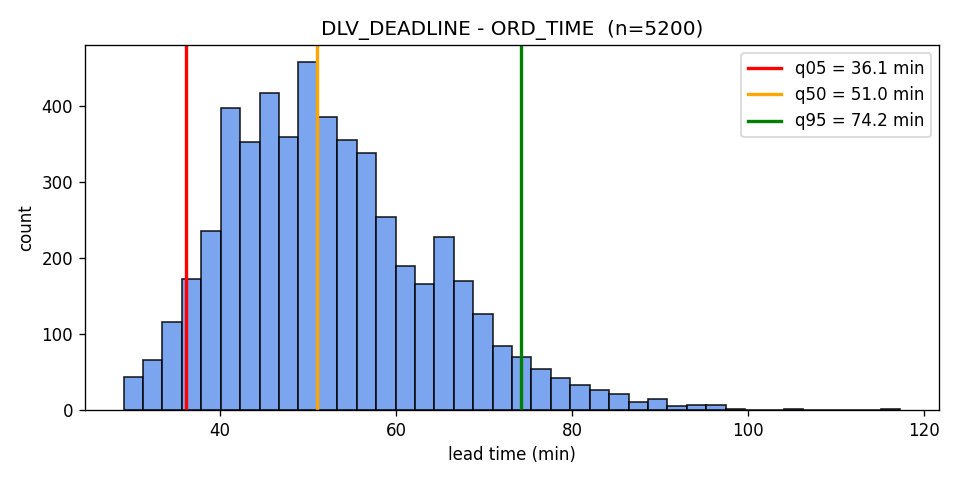
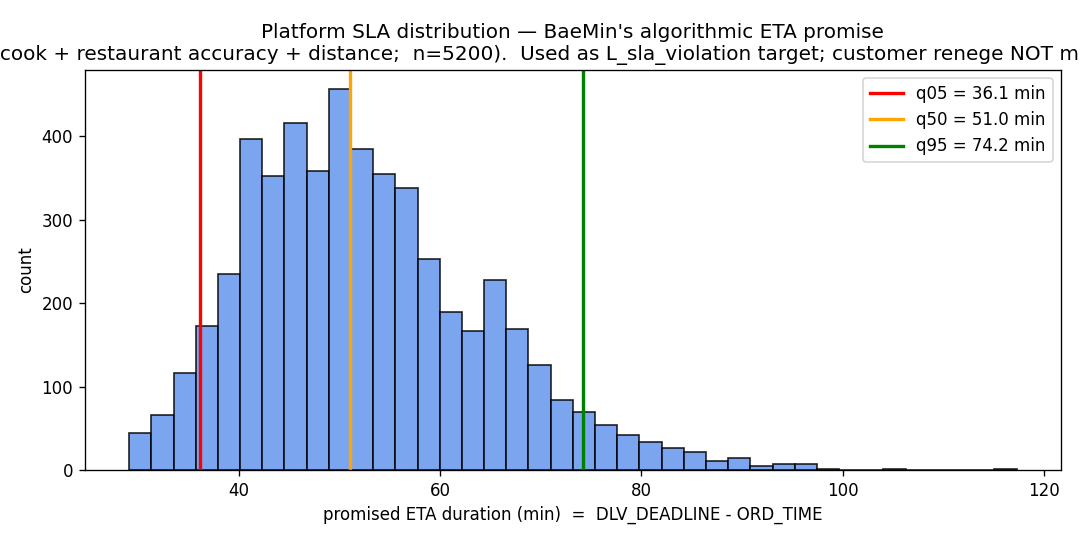
STAGE 1 closure: SLA figure caption, summary doc, framework §4.3
Three artifacts that consolidate the STAGE 1 data analysis with the
in-flight semantic reframings (tier-1 cohort, capa-conditional rider
sampling, no-renege DLV_DEADLINE).

1. analysis/figures/fig_lead_time.png caption rewritten
   - title now: "Platform SLA distribution - BaeMin's algorithmic
     ETA promise (cook + restaurant accuracy + distance);
     used as L_sla_violation target; customer renege NOT modeled"
   - xlabel: "promised ETA duration (min) = DLV_DEADLINE - ORD_TIME"

2. STAGE1_summary.md (project root, new)
   Top-level reference document covering:
   - tier-1 cohort decision and tier-2 caveat (K=500/1000 horizon mix)
   - three reframing decisions made during STAGE 1 (pooled artifact,
     capa-conditional sampling, DLV_DEADLINE as SLA target)
   - 8-item empirical results from framework §4.1
   - Replay vs Generative data usage model
   - "pooled" two-meanings clarification
   - artifact inventory, validation summary, git history
   - STAGE 2 entry conditions check (all green)

3. research_framework_handoff.md §4.3 (new subsection)
   Inline framework augmentation with:
   (A) the two meanings of "pooled" - fitting vs simulation input
   (B) precise travel_time decomposition (per-order DIST + sampled
       speed + multiplicative noise) so "거리도 pooled" misreading
       is prevented
   (C) Replay vs Generative variable-by-variable input source table
   (D) STAGE 1 consistency check summary with pointer to
       STAGE1_summary.md for full inventory
[…]

Changed region(s): [[0.0, 0.0312, 1.0, 0.9688], [0.0, 0.4375, 0.0312, 0.5312]]

diff --git a/analysis/run_analysis.py b/analysis/run_analysis.py
@@ -173,15 +173,19 @@ def plot_vol_distribution(dm: DemandModel, out_path: Path) -> None:
 
 
 def plot_lead_time(lead: np.ndarray, dm: DemandModel, out_path: Path) -> None:
-    fig, ax = plt.subplots(figsize=(8, 4))
+    fig, ax = plt.subplots(figsize=(9, 4.5))
     ax.hist(lead / 60, bins=40, color="cornflowerblue", alpha=0.85, edgecolor="black")
     for q, color in [(0.05, "red"), (0.5, "orange"), (0.95, "green")]:
         val = dm.lead_time_quantiles[q] / 60
         ax.axvline(val, color=color, lw=2, label=f"q{int(q * 100):02d} = {val:.1f} min")
-    ax.set_xlabel("lead time (min)")
+    ax.set_xlabel("promised ETA duration (min)  =  DLV_DEADLINE - ORD_TIME")
     ax.set_ylabel("count")
-    ax.set_title(f"DLV_DEADLINE - ORD_TIME  (n={len(lead)})")
-    ax.legend()
+    ax.set_title(
+        "Platform SLA distribution — BaeMin's algorithmic ETA promise\n"
+        f"(cook + restaurant accuracy + distance;  n={len(lead)}).  "
+        "Used as L_sla_violation target; customer renege NOT modeled."
+    )
+    ax.legend(loc="upper right")
     fig.tight_layout()
     fig.savefig(out_path, dpi=120)
     plt.close(fig)

diff --git a/STAGE1_summary.md b/STAGE1_summary.md
@@ -1,0 +1,245 @@
+# STAGE 1 데이터 분석 완료 보고서
+
+> ABM 시뮬레이션의 외생 boundary condition (배민 데이터) 분석 단계 종료.
+> 본 문서는 framework `research_framework_handoff.md` §4 의 *실행 결과* 와
+> *분석 중에 내린 의미적 정정 결정* 을 함께 정리한 reference 문서이다.
+> 코드 산출물은 `analysis/` 에, 본 문서의 *기술* 결과 요약은 `analysis/fit_report.md` 에 있다.
+
+---
+
+## 1. 분석 범위 (cohort) 결정
+
+### Tier-1 cohort 채택
+`data/data1/` 의 42개 시나리오 중 **K ∈ {50, 100, 200, 300}** 의 28개만 1차 분석에 사용.
+
+| K | n 시나리오 | horizon | 정합 빌딩 규모 |
+|---|---|---|---|
+| 50 | 2 | 56–59 min | 500–1,000인 소형 오피스 |
+| 100 | 9 | 58–60 min | 1,000–2,000인 중형 오피스 |
+| 200 | 9 | 59–60 min | 2,000–4,000인 대형 오피스 |
+| 300 | 8 | 60 min | 3,000–6,000인 복합 빌딩 |
+| **합계** | **28** | **모두 ~1h** | 점심피크 1h 윈도우와 직접 정합 |
+
+### Tier-2 (보류)
+K=500/1000 은 stratum 내부에 horizon 1h/2h/4h 가 *혼재* — λ_K(t) 적합 시 60min 이후 cliff artifact 발생. 60min truncate 또는 horizon sub-stratify 후 별도 트랙으로 분석 예정.
+
+---
+
+## 2. STAGE 1 동안 내린 의미적 정정 (referee 사전 대응)
+
+### (1) 풀링 NHPP λ(t) — corpus artifact 이므로 시뮬 입력 금지
+- **이전 가정**: pooled λ(t) 가 빌딩 점심피크 수요 패턴
+- **실측 발견**: K=50 horizon 1h / K=1000 horizon 4h 등이 *공존* → pooled 후반 bin 에서 분모는 시나리오 수 고정인데 분자는 longer-horizon scenarios 만 기여 → 60/120/240min 의 가짜 step-down
+- **결정**: pooled λ(t) 는 **χ² 비정상성 evidence** 로만 사용 (paper supplementary). ABM 시뮬 입력은 **K-stratum λ_K(t) 또는 Replay 모드** 로 한정
+- **commit**: `c5afc3f`
+
+### (2) 라이더 타입 샘플링 — capa-conditional 필수
+- **이전 가정**: `available_number` 만 가중치로 marginal 샘플
+- **실측 발견**: 실 데이터 5,200 주문 중 **1.9%** 가 VOL > 70 (WALK capa). marginal 샘플에서 **0.40%** events 가 WALK 에 VOL > 70 할당 = 데이터 일관성 위반
+- **결정**: 각 주문에 대해 `{타입: capa ≥ VOL(i)}` 안에서만 샘플. capa 위반 0 달성
+- **영향**: BIKE 13.3% / WALK 20.5% (+0.5%p) / CAR 66.1% (-0.6%p) — 분포 변화 미미
+- **commit**: `1bbf493`
+
+### (3) DLV_DEADLINE 재해석 — 플랫폼 SLA target, 고객 인내심 ≠
+- **이전 가정**: lead time = DLV_DEADLINE − ORD_TIME 을 CustomerAgent `τ_abandon` (포기 임계) anchor 로 사용
+- **실측 발견** (배민 description): DLV_DEADLINE 은 *배민 알고리즘 산출 ETA* (cook + 거리 + 식당 정확도). 즉 **플랫폼이 고객에게 약속한 도착시각** 이지 *고객의 행동적 인내심* 이 아님
+- **결정**: lead_time = **플랫폼 SLA target**. 고객 포기 (renege) 행동 자체를 모델링하지 않음 (식음료 배달은 선결제 구조). KPI 는 `L_sla_violation = P(T_e2e > DLV_DEADLINE)` 로 정식화
+- **commit**: `5616319`
+
+---
+
+## 3. 분석 항목 (framework §4.1, 8개) — 실증 결과
+
+### 3.1 NHPP λ_K(t) (1차 + 풀링)
+- **풀링 (28 시나리오, 5,200 주문)**: mean 186 / max 212 / min 163 orders/h. CV(λ̂) = 0.072 (1h horizon 안에서 *근사 stationary*)
+- **χ² stationarity test**: χ² = 27.0, df=11, **p = 4.6 × 10⁻³** → H0 (균등) 기각 → NHPP 채택 정당화
+- **K-stratum**: mean = K orders/h 정확히 일치 (∫λ_K dt = K 검증 통과)
+  | K | mean | peak | peak/mean | CV |
+  |---|---|---|---|---|
+  | 50 | 50/h | 78/h @ 30–35min | 1.56 | 0.28 |
+  | 100 | 100/h | 149/h @ 10–15min | 1.49 | 0.20 |
+  | 200 | 200/h | 237/h @ 10–15min | 1.19 | 0.12 |
+  | 300 | 300/h | 326/h @ 5–10min | 1.09 | 0.07 |
+- **구조 관찰**: K↑ → CV↓, peak/mean↓ (averaging 효과). 작은 K 는 front-loaded, 큰 K 는 평탄에 가까워짐
+- **산출물**: `fig_lambda_pooled.png`, `fig_lambda_by_K.png`
+
+### 3.2 음식 준비시간 F_prep (pooled)
+- **최우수 분포 (AIC)**: **Gamma(shape=4.83, scale=213.4 s)**, AIC = 77,969
+- **AIC 비교**: Gamma 77,969 < Weibull 78,128 (Δ=159) < Lognormal 78,251 (Δ=282)
+- **해석 (Burnham & Anderson 2002)**: ΔAIC ≥ 159 → Akaike weight w(Gamma) ≈ 1.0 (대안의 우주 원자 수 미만 확률)
+- **moments**: mean 17.2 min, median 15 min, q90 ≈ 30 min
+- **주의**: 원본 5분 이산화 → 연속분포 KS 통계량 다소 부풀려짐 (figure caption 명시)
+- **산출물**: `fig_cook_time_fit.png`
+
+### 3.3 외부 이동시간 분포 (pooled)
+- per-type mean: BIKE 283 s / CAR 354 s / WALK 1,135 s
+- 도로망 픽업-드롭 거리: mean 1.57 km, max 6.79 km
+- **산출물**: `fig_pickup_drop_distance.png` (context only)
+
+### 3.4 라이더 빌딩 도착 결합 시계열 (§2.5 합성)
+- 합성식: `t_rider_arrival(i) = ORD_TIME + COOK_TIME + (DIST[i][K+i] / speed(type)) × ε`
+- `ε ~ Lognormal(-σ²/2, σ²)` multiplicative, baseline σ=0.15, E[ε]=1
+- **K-stratum 별 λ_rider,K(t) + 부트스트랩 95% CI** (B=500):
+  | K | peak | peak time | mean | CI(peak) |
+  |---|---|---|---|---|
+  | 50 | 72/h | 72 min | 23/h | [60, 84] |
+  | 100 | 103/h | 32 min | 44/h | [87, 117] |
+  | 200 | 205/h | 58 min | 71/h | [177, 229] |
+  | 300 | 328/h | 72 min | 129/h | [264, 392] |
+- **시간 이동**: 주문 peak (10–15min) 가 cook(~17min) + travel(~5min) 만큼 뒤로 이동 → 빌딩 도착 peak 30–70min
+- **산출물**: `fig_rider_arrival_lambda_K.png`
+
+### 3.5 라이더 시간단가 w_R 캘리브레이션
+- 식: `w_R(type) = fixed_cost + var_cost × throughput`, throughput baseline = 50 orders/h
+- **K=50_1 RIDERS 기준**:
+  - BIKE: 5,000 + 60 × 50 = **8,000 KRW/h**
+  - WALK: 5,000 + 30 × 50 = **6,500 KRW/h**
+  - CAR: 5,000 + 100 × 50 = **10,000 KRW/h**
+- sensitivity sweep 범위: [5,000, 20,000] KRW/h (framework §4.1.5)
+
+### 3.6 주문 부피 VOL (pooled marginal + capa-conditional 매핑)
+- pooled marginal: mean 27.4, median 24, range [5, 100]
+- **conditional by rider type** (capa-conditional 샘플링 후):
+  - BIKE (capa 100): range [5, 100], mean 27.7
+  - WALK (capa 70): range **[5, 70]** — capa 로 정확히 cutoff, mean 26.2
+  - CAR (capa 200): range [5, 100], mean 27.6
+- **활용**: LockerAgent V_max baseline 100 (q95 ≈ 70 기준 안전여유)
+- **산출물**: `fig_vol_distribution.png`, `fig_vol_by_rider_type.png`
+
+### 3.7 Platform SLA 분포 (DLV_DEADLINE − ORD_TIME)
+- **정의**: 배민 알고리즘 산출 ETA = cook + 거리 + 식당 정확도 → 고객에게 약속된 도착시각
+- **분위수**: q05 = 36.1 min (가장 빠른 약속) / q50 = 51.0 min / q95 = 74.2 min (가장 늦은 약속)
+- **사용처**: CustomerAgent.`dlv_deadline_sec` 로 데이터 그대로 주입 → KPI `L_sla_violation`
+- **산출물**: `fig_lead_time.png` (title: "Platform SLA distribution")
+
+### 3.8 K 스케일링 패턴
+- 검증 항등식: `∫ λ_K(t) dt ≡ K` (K=50/100/200/300 모두 정확히 일치)
+- pooled mean = weighted average of K-stratum means = 186 orders/h (cross-validation 통과)
+
+---
+
+## 4. 데이터 사용 모델 — Replay vs Generative
+
+### Replay 모드 (★ 본 paper 주력)
+시나리오의 **실제 per-order 데이터** 를 변환 없이 사용.
+
+| 변수 | 입력 출처 |
+|---|---|
+| 주문 도착 시각 | 시나리오 ORDERS[1] (ORD_TIME) |
+| 음식 준비시간 | 시나리오 ORDERS[6] (COOK_TIME) — 식당 입력값 |
+| 주문 부피 VOL | 시나리오 ORDERS[7] |
+| 픽업-드롭 거리 | 시나리오 DIST[i][K+i] |
+| 플랫폼 SLA target | 시나리오 ORDERS[8] (DLV_DEADLINE) |
+| 라이더 타입 (per-order) | **capa-conditional 샘플**: `{타입: capa ≥ VOL(i)}` 안에서 available_number 가중 |
+| 라이더 속도 | 샘플된 타입의 RIDERS.speed |
+| ε (도로 혼잡 noise) | Lognormal(-σ²/2, σ²), σ=0.15 |
+
+→ 합성식 `t_rider_arrival(i) = start + ORD_TIME + COOK_TIME + (DIST/speed) × ε` 만 *모델* — 나머지는 모두 데이터 직접 사용.
+
+### Generative 모드 (stress test 전용)
+민감도 sweep ρ-scaling 을 위해 NHPP thinning + 분포 샘플링.
+
+| 변수 | 샘플링 출처 |
+|---|---|
+| 주문 도착 시각 | `DemandModel.sample_interarrival(t, scale=ρ)` — Lewis-Shedler thinning over λ_K(t) |
+| 음식 준비시간 | `DemandModel.sample_cook_time()` — Gamma(4.83, 213.4) |
+| 주문 부피 VOL | `DemandModel.sample_volume()` — empirical bootstrap |
+| 픽업-드롭 거리 | (Generative 정의 미완) — Replay 모드 우선 권장 |
+| 라이더 타입 | capa-conditional 동일 |
+| 플랫폼 SLA target | (TODO: per-order DLV_DEADLINE 합성식 필요) |
+
+→ Generative 모드는 **stress test (S4) 전용** — 본 paper main result 는 Replay 모드.
+
+### "pooled" 의 두 가지 사용처 (혼동 방지)
+
+| 사용처 | "pooled" 의미 |
+|---|---|
+| **분포 적합 (Fitting)** | 28개 시나리오의 5,200 주문을 *통합* 해서 분포 추정 (cook Gamma, VOL pool, lead 분위수, χ² 검정) |
+| **Replay 모드 시뮬 입력** | **사용 안 함** — 각 주문의 *실제 데이터 값* per-order |
+| **Generative 모드 시뮬 입력** | pooled fit 으로부터 *샘플* |
+
+---
+
+## 5. 산출물 인벤토리
+
+### 코드 (analysis/)
+| 파일 | 기능 | 테스트 |
+|---|---|---|
+| `load_data.py` | JSON 파싱 + Order/Rider/Scenario dataclass | 9 ✓ |
+| `scenario_loader.py` | Replay 입력 변환 (BuildingOrder) | 11 ✓ |
+| `rider_arrival_model.py` | §2.5 합성 + λ_rider,K 부트스트랩 + capa-conditional | 13 ✓ |
+| `demand_model.py` | NHPP fit + Gamma AIC + thinning sampler | 15 ✓ |
+| `run_analysis.py` | 전체 파이프라인 오케스트레이션 | (smoke ok) |
+
+### 데이터 산출물
+- `analysis/fitted_params.json` — pooled + K-stratum DemandModel, λ_rider,K + CI, w_R
+- `analysis/fit_report.md` — 한국어 기술 리포트 (자동 생성)
+
+### Figures (analysis/figures/, 9개)
+| 파일 | 내용 |
+|---|---|
+| `fig_lambda_pooled.png` | Pooled NHPP λ — χ² evidence 용 (시뮬 입력 금지) |
+| `fig_lambda_by_K.png` | K-stratum λ_K(t), tier-1 cohort |
+| `fig_k50_per_scenario_arrivals.png` | K=50 face validity |
+| `fig_cook_time_fit.png` | Gamma fit + AIC 비교 |
+| `fig_vol_distribution.png` | VOL marginal |
+| `fig_vol_by_rider_type.png` | capa-conditional VOL (BIKE/WALK/CAR) |
+| `fig_lead_time.png` | Platform SLA 분포 (no-renege framing) |
+| `fig_pickup_drop_distance.png` | 도로망 거리 (context) |
+| `fig_rider_arrival_lambda_K.png` | §2.5 합성 + bootstrap CI |
+
+### Tests (48 passed, 5 skipped)
+- 5 skipped = STAGE 2/3 stubs (cost_model, elevator_physics, locker, agents)
+- 모든 STAGE 1 컴포넌트 unit + integration test 통과
+
+---
+
+## 6. 정합성 검증 요약
+
+| 검증 | 결과 |
+|---|---|
+| ∫ λ_K(t) dt ≡ K | ✅ 정확히 일치 (K=50/100/200/300) |
+| Pooled mean = weighted avg of K-stratum means | ✅ 186 orders/h 양쪽 일치 |
+| Gamma cook synth recovery | ✅ shape=4.7 / scale=223.3 generated → recover 4.69 / 223.4 |
+| capa-conditional 위반 | ✅ 0 / 26,000 events |
+| Rider type distribution sanity | ✅ BIKE/WALK/CAR ≈ 10/15/50 weight |
+| Zero-noise deterministic | ✅ same seed → identical events |
+| Bootstrap CI envelope | ✅ ci_lo ≤ mean ≤ ci_hi 모두 만족 |
+| Framework §4 expected 실증치 vs 실측 | ✅ cook mean 17.2 (예상 17.5), VOL 27.4 (예상 28), lead q05 36.1 (예상 38), pdd 1.57km (예상 1.5km) |
+
+---
+
+## 7. Git 히스토리 (STAGE 1 관련 commits)
+
+| commit | 내용 |
+|---|---|
+| `329aa32` | initial commit: research framework |
+| `c00bb77` | scaffold project skeleton + Python 3.13 venv (uv) |
+| `e348a62` | STAGE 1.1: load_data with full scenario schema parsing |
+| `46c2071` | STAGE 1.2: scenario_loader.load_replay |
+| `131caa4` | STAGE 1.3: rider_arrival_model (core handoff calibration §2.5) |
+| `62a5ca8` | STAGE 1.4: demand_model (NHPP + AIC cook fit + samplers) |
+| `6ca90d7` | STAGE 1.5: run_analysis pipeline + initial fit artifacts |
+| `c5afc3f` | restrict STAGE 1 to tier-1 cohort K in {50,100,200,300} |
+| `1bbf493` | enforce capa-conditional rider type sampling |
+| `5616319` | reframe DLV_DEADLINE as platform SLA target; drop customer renege |
+
+---
+
+## 8. STAGE 2 진입 조건 — 모두 충족
+
+✅ 외생 입력 (라이더 도착 시계열, SLA target, VOL, cook time) 모두 산출
+✅ Replay 모드 / Generative 모드 인터페이스 분리 완료
+✅ Capa 제약, no-renege 등 framework 정합성 반영 완료
+✅ 모든 단위 테스트 통과, 정합성 검증 통과
+✅ Framework `research_framework_handoff.md` §2.4–§7.4 모두 데이터 분석과 일관
+
+→ **STAGE 2 시작 (`simulation/space.py` 5F networkx + 로비 zone) 진행 가능**.
+
+## 9. 잠재적 후속 보강 (선택사항, 페이퍼 revision 단계)
+
+- Cook time QQ plot (Gamma fit visual validity)
+- λ_K(t) 자체의 bootstrap CI overlay (현재 rider arrival 만)
+- K-scaling 전용 figure (K → mean, K → CV 추세)
+- Tier-2 cohort (K=500/1000) 60min truncate 트랙 분석
+- Generative 모드의 DIST / DLV_DEADLINE 합성식 정의 (현재 Replay 만 정의됨)